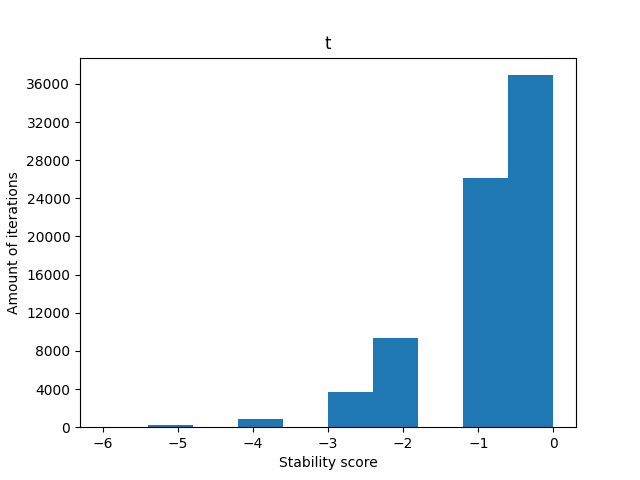
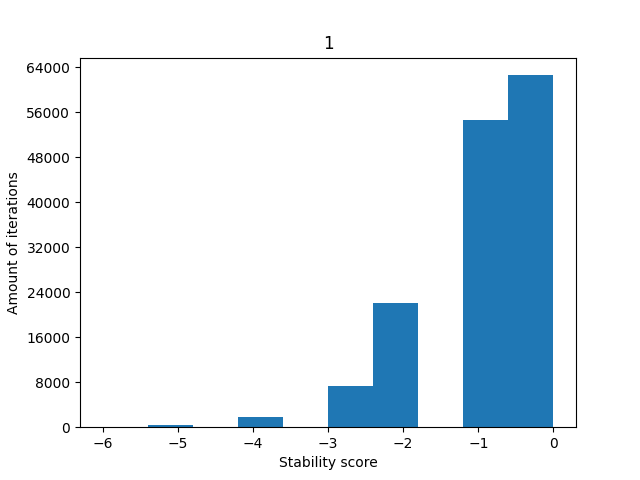
depth-first rewritten for different stacks use

diff --git a/code/algorithms/depth_first_copy.py b/code/algorithms/depth_first_copy.py
@@ -28,39 +28,35 @@ class DepthFirst():
         '''
         Creates all possible child-states and adds them to the list of states.
         '''
+        # how do we check what folding the previous amino acid had (what folding the parent had)
+        values = Protein.get_fold_list(self.protein)
+
         # don't let it fold back onto itself
         last_folding = curr_state.aminoacids[curr_state.depth_index].folding
-        
+
         if last_folding is not None:
             last_folding = last_folding * -1
-            curr_state.depth_values.remove(last_folding)
+            values.remove(last_folding)
 
-        if curr_state.depth_values:
-            value = curr_state.depth_values.pop()
-            self.states.append(curr_state)
+        # we give the amino acid the different folding options that it can have
+        for value in values:
+            child = copy.deepcopy(curr_state)
 
-            if value is not None:
-                child = copy.deepcopy(curr_state)
+            # assign the value to the amino acid's folding (using the aminoacid defined above)
+            child.aminoacids[child.depth_index].folding = value
+            
+            x, y = self.get_coordinates(value, child)
 
-                # assign the value to the amino acid's folding (using the aminoacid defined above)
-                child.aminoacids[child.depth_index].folding = value
-                
-                x, y = self.get_coordinates(value, child)
-
-                if (x, y) in child.positions.keys():
-                    # Delete non-available possibilities
-                    del child
-                else:
-                    # Check if new folding does not intersect with rest of protein
-                    child.depth_index += 1
-                    child.add_position(child.aminoacids[child.depth_index], x, y)
-
-                    # Add the child to the stack
-                    child.depth_values = child.get_fold_list()
-                    self.states.append(child)
-
-        else:
-            del curr_state
+            if (x, y) in child.positions.keys():
+                # Delete non-available possibilities
+                del child
+            else:
+                # Check if new folding does not intersect with rest of protein
+                child.depth_index += 1
+                child.add_position(child.aminoacids[child.depth_index], x, y)
+            
+                # Add the child to the stack
+                self.states.append(child)
 
 
     def check_solution(self, new_protein):
@@ -71,20 +67,17 @@ class DepthFirst():
         new_stability = new_protein.score
         
         # Add solution to the list
-        # self.solutions.append([new_protein.score, new_protein.positions])
+        self.solutions.append([new_protein.score, new_protein.positions])
 
         # Check if solution is better or equal to previous solutions
         if new_stability == self.best_stability:
-            # self.best_solutions.append([self.best_stability, new_protein.positions])
-            pass
+            self.best_solutions.append([self.best_stability, new_protein.positions])
 
         elif new_stability < self.best_stability:
 
             self.best_stability = new_stability
             self.best_solutions.clear()
             self.best_solutions.append([new_protein.score, new_protein.positions])
-
-        del new_protein
 
 
     def get_coordinates(self, folding, child):
@@ -127,8 +120,6 @@ class DepthFirst():
 
         # while the stack is not empty
         while self.states:
-            if len(self.states) > 20:
-                print(len(self.states))
             # we got a protein out of the states: the parent
             curr_state = self.get_next_state()
             
@@ -137,6 +128,9 @@ class DepthFirst():
                 self.check_solution(curr_state)
             else:
                 self.build_children(curr_state)
+
+            # After use, delete current state
+            del curr_state
         
         # Fill original protein class with a best solution to visualize this data
         final_solution = random.choice(self.best_solutions)

diff --git a/code/classes/protein.py b/code/classes/protein.py
@@ -10,6 +10,7 @@ class Protein():
         # key = (x, y), value = AminoAcid()
         self.positions = {}
         self.depth_index = 0
+        self.depth_values = self.get_fold_list()
 
 
     def load_proteins(self, source, protein_id):
@@ -135,7 +136,7 @@ class Protein():
 
 
     def __repr__(self):
-        return f"{self.id}: f{self.aminoacids}"
+        return f"{self.id}: f{self.positions}"
 
 class Temp_Protein(Protein):
     def __init__(self, aminoacids):
